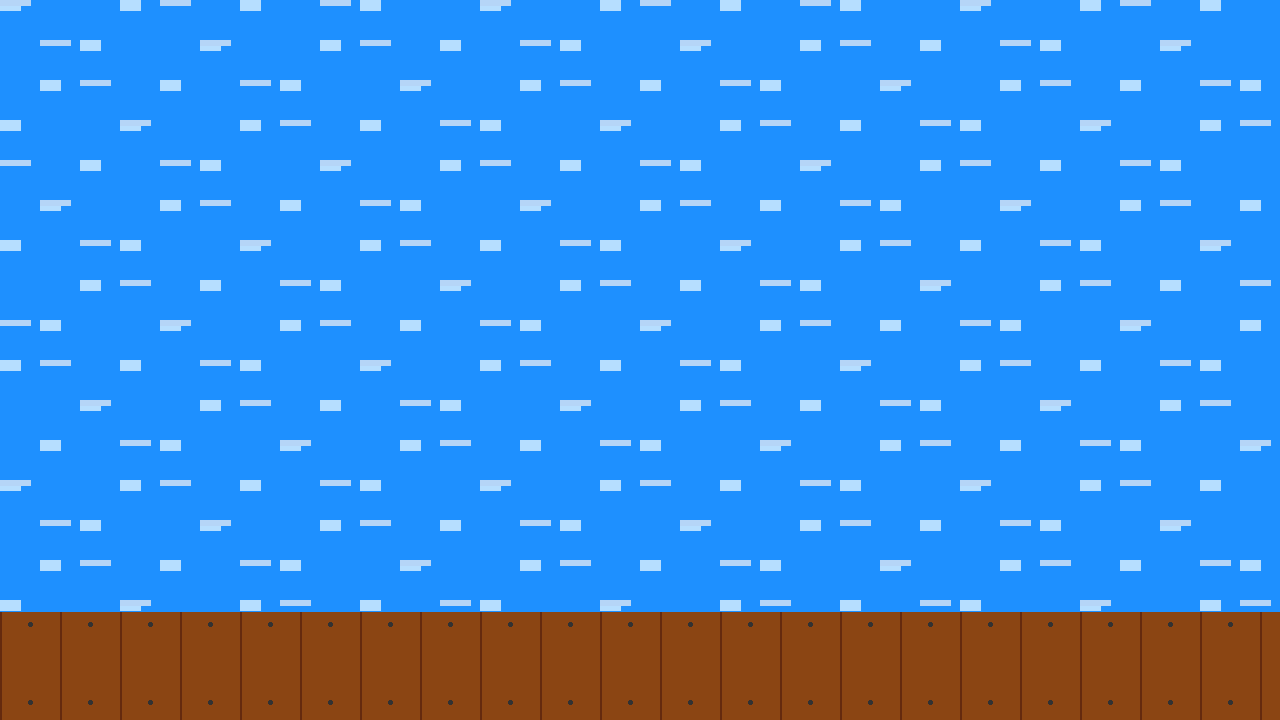
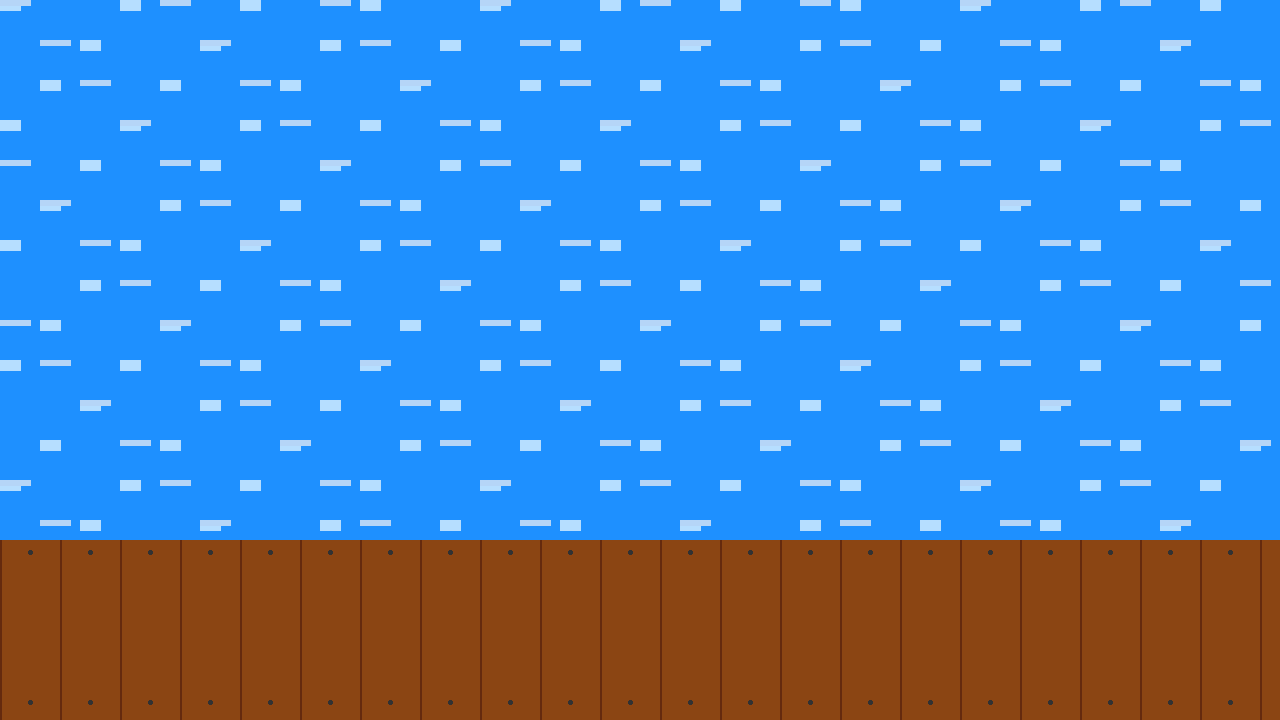
fix: 배경 데크 높이 증가 및 모바일 상점 스크롤, 버튼 위치 수정

Changed region(s): [[0.0, 0.7333, 1.0, 0.8556]]

diff --git a/src/scenes/IntroScene.js b/src/scenes/IntroScene.js
@@ -79,7 +79,7 @@ export default class IntroScene extends Phaser.Scene {
 
         // --- 초기화 버튼 (좌측 하단) ---
         const resetBtnSize = width < 360 ? '14px' : '18px';
-        const resetBtn = this.add.text(20, height - 60, '⚠ 데이터 초기화', {
+        const resetBtn = this.add.text(20, height - 90, '⚠ 데이터 초기화', {
             fontSize: resetBtnSize,
             fontFamily: 'Arial',
             color: '#FFCCCC',

diff --git a/styles/main.css b/styles/main.css
@@ -135,6 +135,12 @@ body {
     .shop-content {
         flex-direction: column !important;
         gap: 10px;
+        min-height: 0;
+    }
+
+    .upgrade-list {
+        min-height: 0;
+        overflow-y: auto;
     }
 
     #shop-popup {

diff --git a/generate_assets_new.py b/generate_assets_new.py
@@ -14,8 +14,8 @@ def create_topdown_background(filename):
             if (x - y) % 160 == 0:
                 draw.rectangle([x, y, x + 30, y + 5], fill=(20, 120, 230, 80))
 
-    # 하단 15% 영역에 캐릭터가 서 있을 나무 데크 (Dock) 생성
-    dock_height = int(height * 0.15)
+    # 하단 25% 영역에 캐릭터가 서 있을 나무 데크 (Dock) 생성
+    dock_height = int(height * 0.25)
     dock_y = height - dock_height
     draw.rectangle([0, dock_y, width, height], fill=(139, 69, 19, 255)) # 갈색 나무
 
